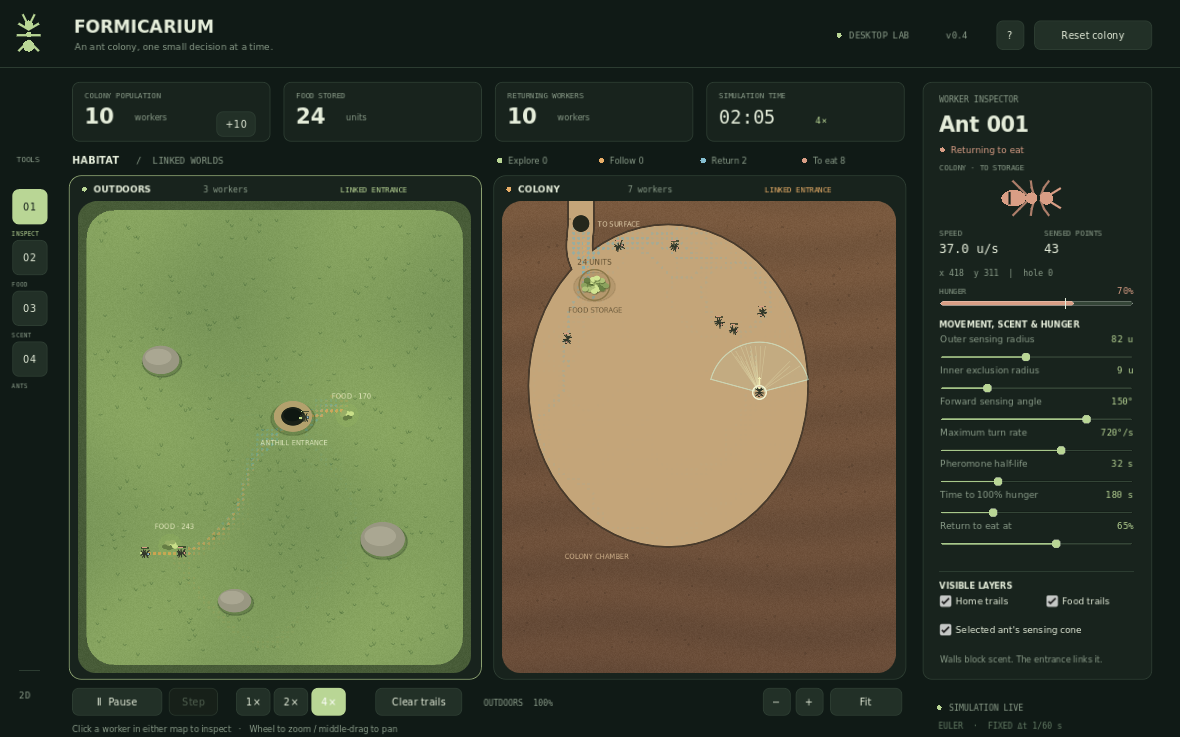
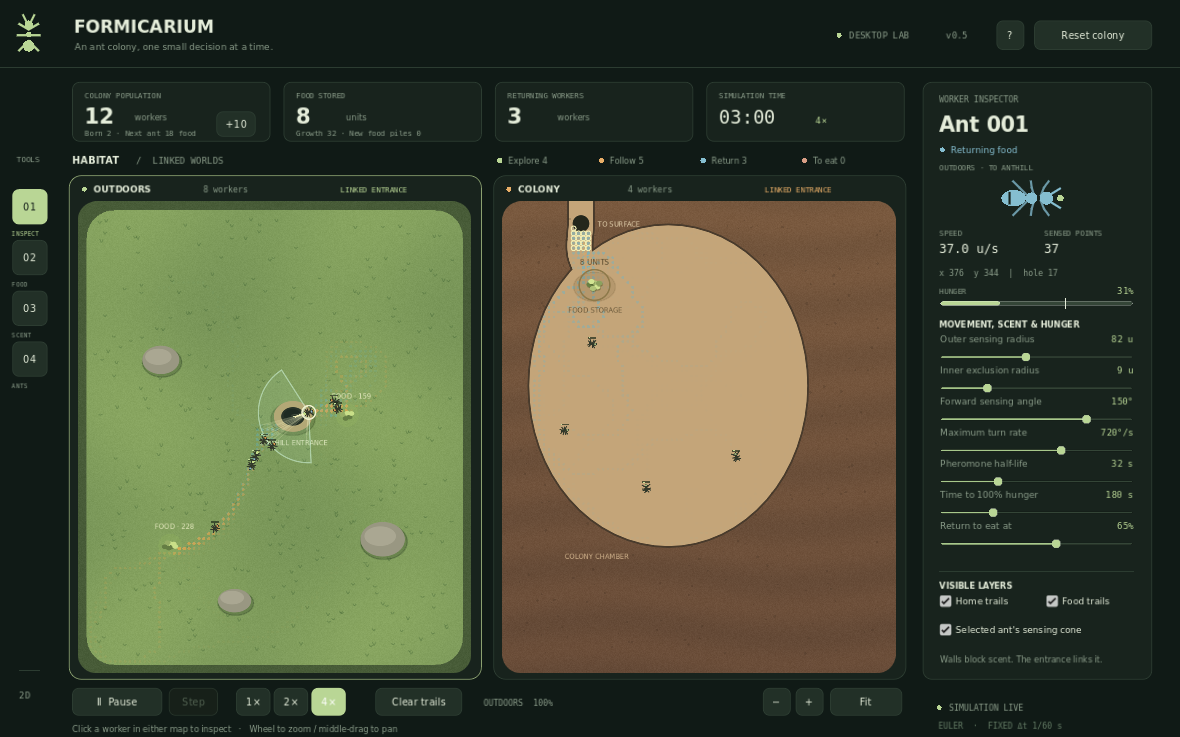
Grow colony from stored food and replenish low food sources

diff --git a/README.md b/README.md
@@ -72,6 +72,7 @@ Start with **10 workers**. Select the Ants tool (4) to place more in either
 map; Shift-click places ten. Reset restores the original ten. Each map has
 its own zoom and pan. The bottom zoom buttons control the most recently
 clicked map. Inspection follows the same worker as it travels between maps.
+Stored food can also produce new workers automatically.
 
 Use 1×, 2× and 4× to change the number of fixed simulation steps, independently
 of the display frame rate. The inspector adjusts both radii, the forward
@@ -126,6 +127,34 @@ foragers do not pick their deliveries straight back up. Hungry workers eat
 from storage instead. Clear trails preserves stored food; Reset colony empties
 storage and restores the initial ten ants.
 
+## Colony growth and food replacement
+
+The colony produces a worker whenever stored food reaches
+`ceil(current_ant_count * 1.5)`. It spends that amount from storage and the
+new worker appears inside the chamber near the stockpile, fed and ready to
+explore. For example, ten ants need 15 food for the eleventh worker; eleven
+ants then need 17 food for the twelfth. Manually added workers count toward
+the next threshold.
+
+Workers eat and unload before growth is checked. At most one worker is born
+per fixed step, and the next cost is recalculated from the new population.
+The population card shows automatic births and the next food cost; the food
+card shows food spent on growth and the number of automatic new food piles.
+
+When collection brings a forage source down to **five units**, a new source
+containing **120 food** appears at a random clear location outdoors. It stays
+away from rocks, the entrance and other active piles. The old pile keeps its
+last five units. Each depletion triggers once, including when several ants
+collect the remaining units in the same tick. New sources can create further
+replacements when they run low, and refilling an old source allows another
+replacement on its next depletion. A source placed inside the colony also
+creates its successor outdoors.
+
+If no clear location is available, the replacement stays pending and retries
+later. Storage is separate from these forage sources. Reset restores the
+original ten ants, two outdoor sources and empty storage, and clears growth
+costs and replacement counters.
+
 ## Hunger
 
 Every worker has its own hunger meter: **0% is fed and 100% is fully hungry**.
@@ -156,7 +185,8 @@ If storage is empty, the worker keeps its hunger and resumes foraging for
 30 seconds before trying another meal trip. It can also collect food on the
 way home, deliver it, and eat the unit it brought back. This allows the colony
 to replenish an empty store. Stored food, lifetime deliveries and consumed
-meals are tracked separately, so food remains conserved after workers eat.
+meals and food spent on growth are tracked separately. Food accounting also
+includes the food added by automatic replacement sources.
 
 ## The model
 
@@ -217,11 +247,11 @@ manually added ants and food.
 ## Source layout
 
 - simulation/world.gd: independent outdoor and colony maps, curved tunnel
-  geometry, a 2-unit collision/visibility mask, food sources and food storage.
+  geometry, a 2-unit collision/visibility mask, safe food placement and storage.
 - simulation/pheromones.gd: per-map chemical fields, deposition, decay, local
   attraction and wall-checked sensing through the entrance.
-- simulation/simulation.gd: ant states, hunger and meals, manual spawning,
-  entrance transfers, mode transitions and fixed-step motion across both maps.
+- simulation/simulation.gd: ant states, hunger and meals, colony growth, food
+  replacement, manual spawning, entrance transfers and fixed-step motion.
 - app/habitat.gd: one map viewport, rounded terrain and tunnels, ants, overlays,
   independent zoom/pan and map-specific placement tools.
 - app/main.gd: native controls and inspection panel.
@@ -250,6 +280,11 @@ preventing stored provisions from being reharvested.
 Hunger checks cover fill time, threshold changes, the full return-to-eat trip,
 consuming the last stored unit, empty-storage recovery, carrying food while
 hungry, walls blocking meals and conservation including consumed food.
+Growth checks cover rounded costs, spending food exactly once, fed newborns,
+unique ids, meal priority, blocked birth locations and changing population
+size during motion. Source checks cover crossing the five-food threshold,
+multiple pickups in one tick, refilling sources, safe random placement,
+retrying blocked placement, normal food pheromones and seeded repeatability.
 Application checks exercise pause/step, both map views, shared selection,
 parameter controls, food placement, both pheromone brush channels, ant
 placement and batches, independent zoom, both hunger sliders, hunger during
@@ -263,10 +298,10 @@ also be exported to macOS using Godot's macOS preset and templates.
 
 ## First-version scope
 
-This is a tunable colony sandbox. Terrain and tunnels are initially fixed;
-digging, queens, brood behavior, reproduction, combat and a game economy are
-future work. Trail behavior is intentionally an approximation rather than a
-biologically calibrated model.
+This is a tunable colony sandbox. Terrain and tunnels are initially fixed.
+Worker production instantly converts stored food into new ants. Digging,
+queens, brood development, combat and a game economy are future work. Trail
+behavior is an approximation rather than a biologically calibrated model.
 
 Project code is MIT licensed. Godot license and notices are included in
 GODOT-LICENSE.txt and GODOT-COPYRIGHT.txt.

diff --git a/VALIDATION.md b/VALIDATION.md
@@ -1,15 +1,16 @@
-# Version 0.4 validation
+# Version 0.5 validation
 
 - Godot 4.6.3 standard engine, typed GDScript, compatibility renderer.
-- 142 simulation checks passed.
-- 46 application integration checks passed, for 188 total checks using
+- 172 simulation checks passed.
+- 51 application integration checks passed, for 223 total checks using
   `./run-tests.sh` on Linux.
 - The unchanged PowerShell launcher was exercised on Linux in version 0.2
   with an explicit Godot path. Windows engine download and interactive launch
   have not been tested here.
-- The 180-second seeded run started with ten ants, picked up 39 food units,
-  delivered 35, consumed ten meals and had 25 units left in storage.
-  Food conservation includes consumed meals. Collision, finite state,
+- The 180-second seeded run grew from ten to twelve ants, picked up 53 food
+  units, delivered 50, consumed ten meals, spent 32 food on two births and
+  had eight units left in storage. Food accounting includes meals, growth
+  spending and automatically generated food. Collision, finite state,
   speed and continuous-map turn-rate checks passed.
 - Tests cover two-way entrance transfers, worker identity and carried food,
   cooldown, arrival positions, portal path distance, combined attraction cap,
@@ -27,17 +28,29 @@
   eating, empty-store recovery, and two ants competing for the last unit.
   A worker already facing home scent keeps its heading, including when
   picking up food on the way back to eat.
+- Growth checks cover exact and rounded population-based costs, charging
+  food once, fed newborns inside the colony, stable ids, one birth per step,
+  manual additions changing the next cost, blocked birth positions and
+  workers eating before growth spends the remaining food.
+- Food-source checks cover the six-to-five transition, repeated ticks at
+  five, collecting below five, several pickups in one tick, refilling an old
+  source, generated sources making successors, safe placement, normal food
+  beacons, blocked placement retry and seeded repeatability. Indoor forage
+  sources create their successors outdoors; colony storage does not trigger
+  this rule.
 - The native Linux application was opened and inspected on the shared desktop.
-  The single chamber, per-worker meters, selected worker's hunger bar and
-  Returning to eat mode were visible. Both hunger sliders were changed to
-  their minimums; stepping applied the new threshold. Reset restored fed
-  workers, empty storage and the 180-second / 65% defaults. Pause and the 4x
-  control were also checked manually.
+  The population grew automatically to eighteen workers. The population card
+  showed eight births and a 27-food next cost; the food card showed 164 units
+  spent on growth. New status text fit in both cards. Pause and the 4x control
+  were also checked manually.
 - Integration checks also cover single-step, both maps' food placement and
   pheromone brushes, shared parameter controls, layer toggles, clearing both
   fields, selection following a worker through the entrance and camera reset.
   They also verify unloading while stepping, preserving provisions when
   clearing trails, eating while stepping, hunger pausing with the simulation,
   and restoring hunger settings and storage on reset.
-- Version 0.4 is delivered as updated source for the existing clone and
+  New checks cover paused growth, a birth on single-step, selecting a newborn,
+  replacing a low food source in the displayed outdoor world, and clearing
+  automatic births, costs and new sources on reset.
+- Version 0.5 is delivered as updated source for the existing clone and
   launcher. New standalone release exports were not produced for this update.
